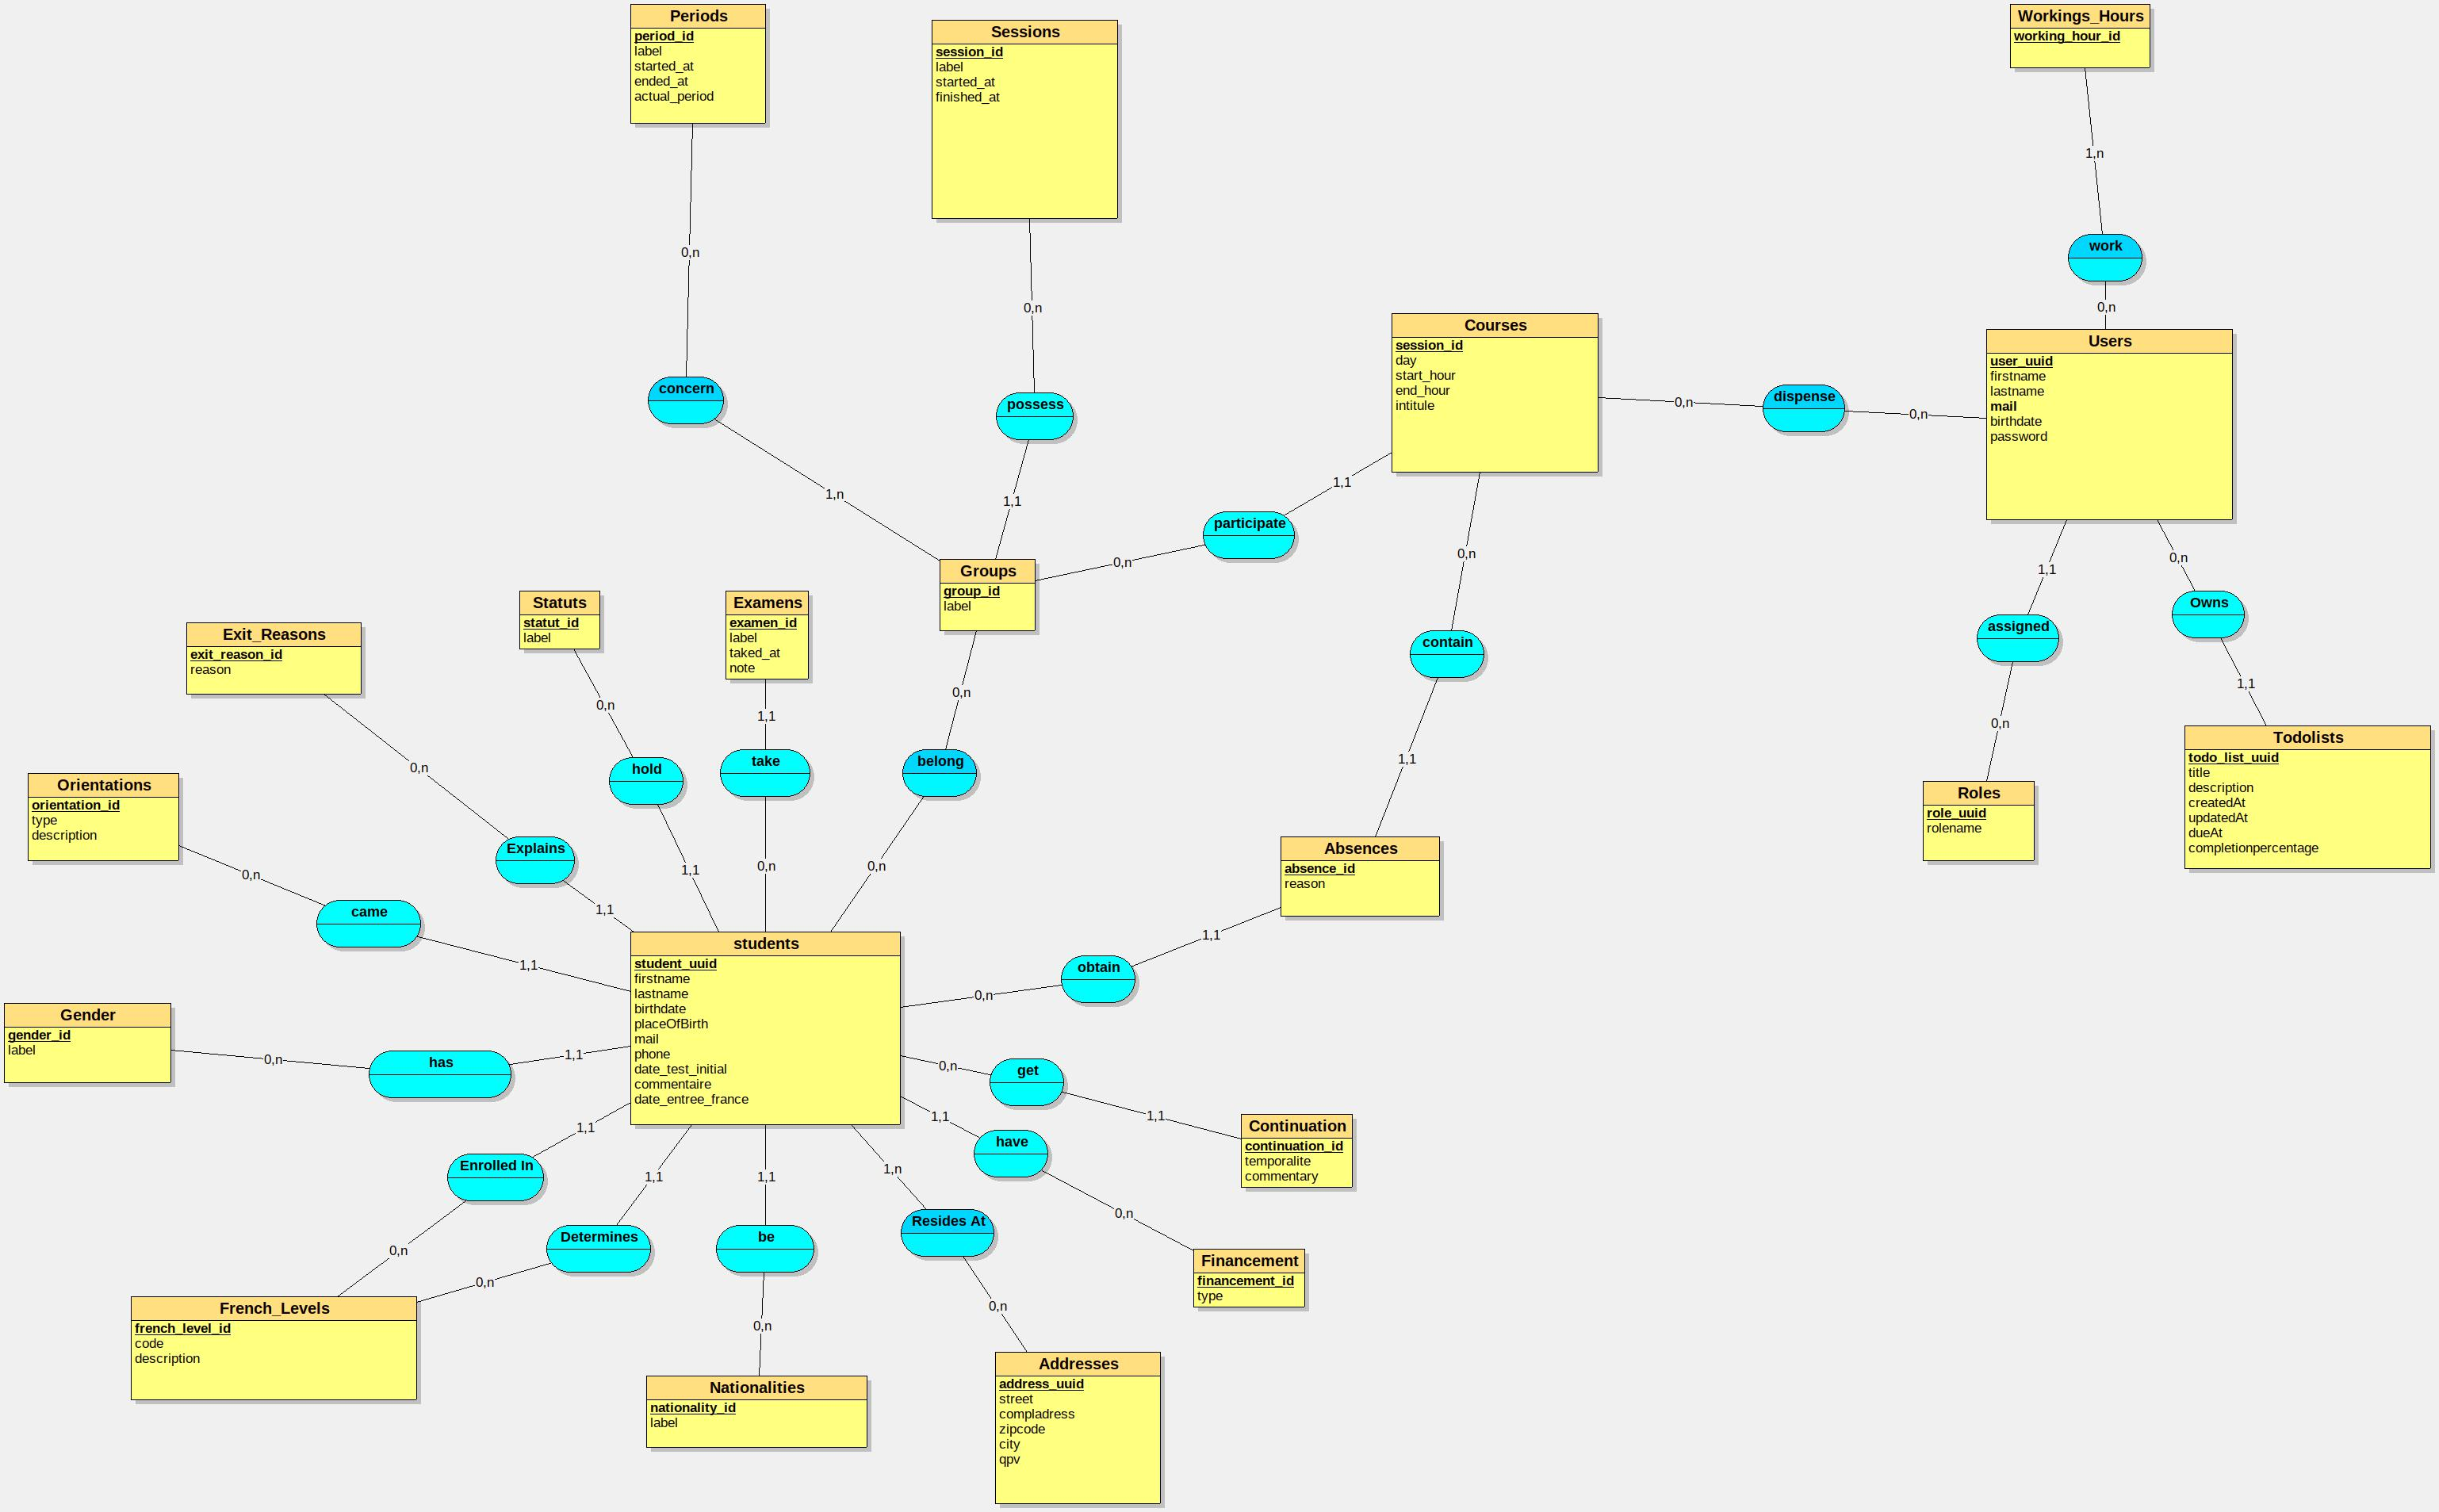
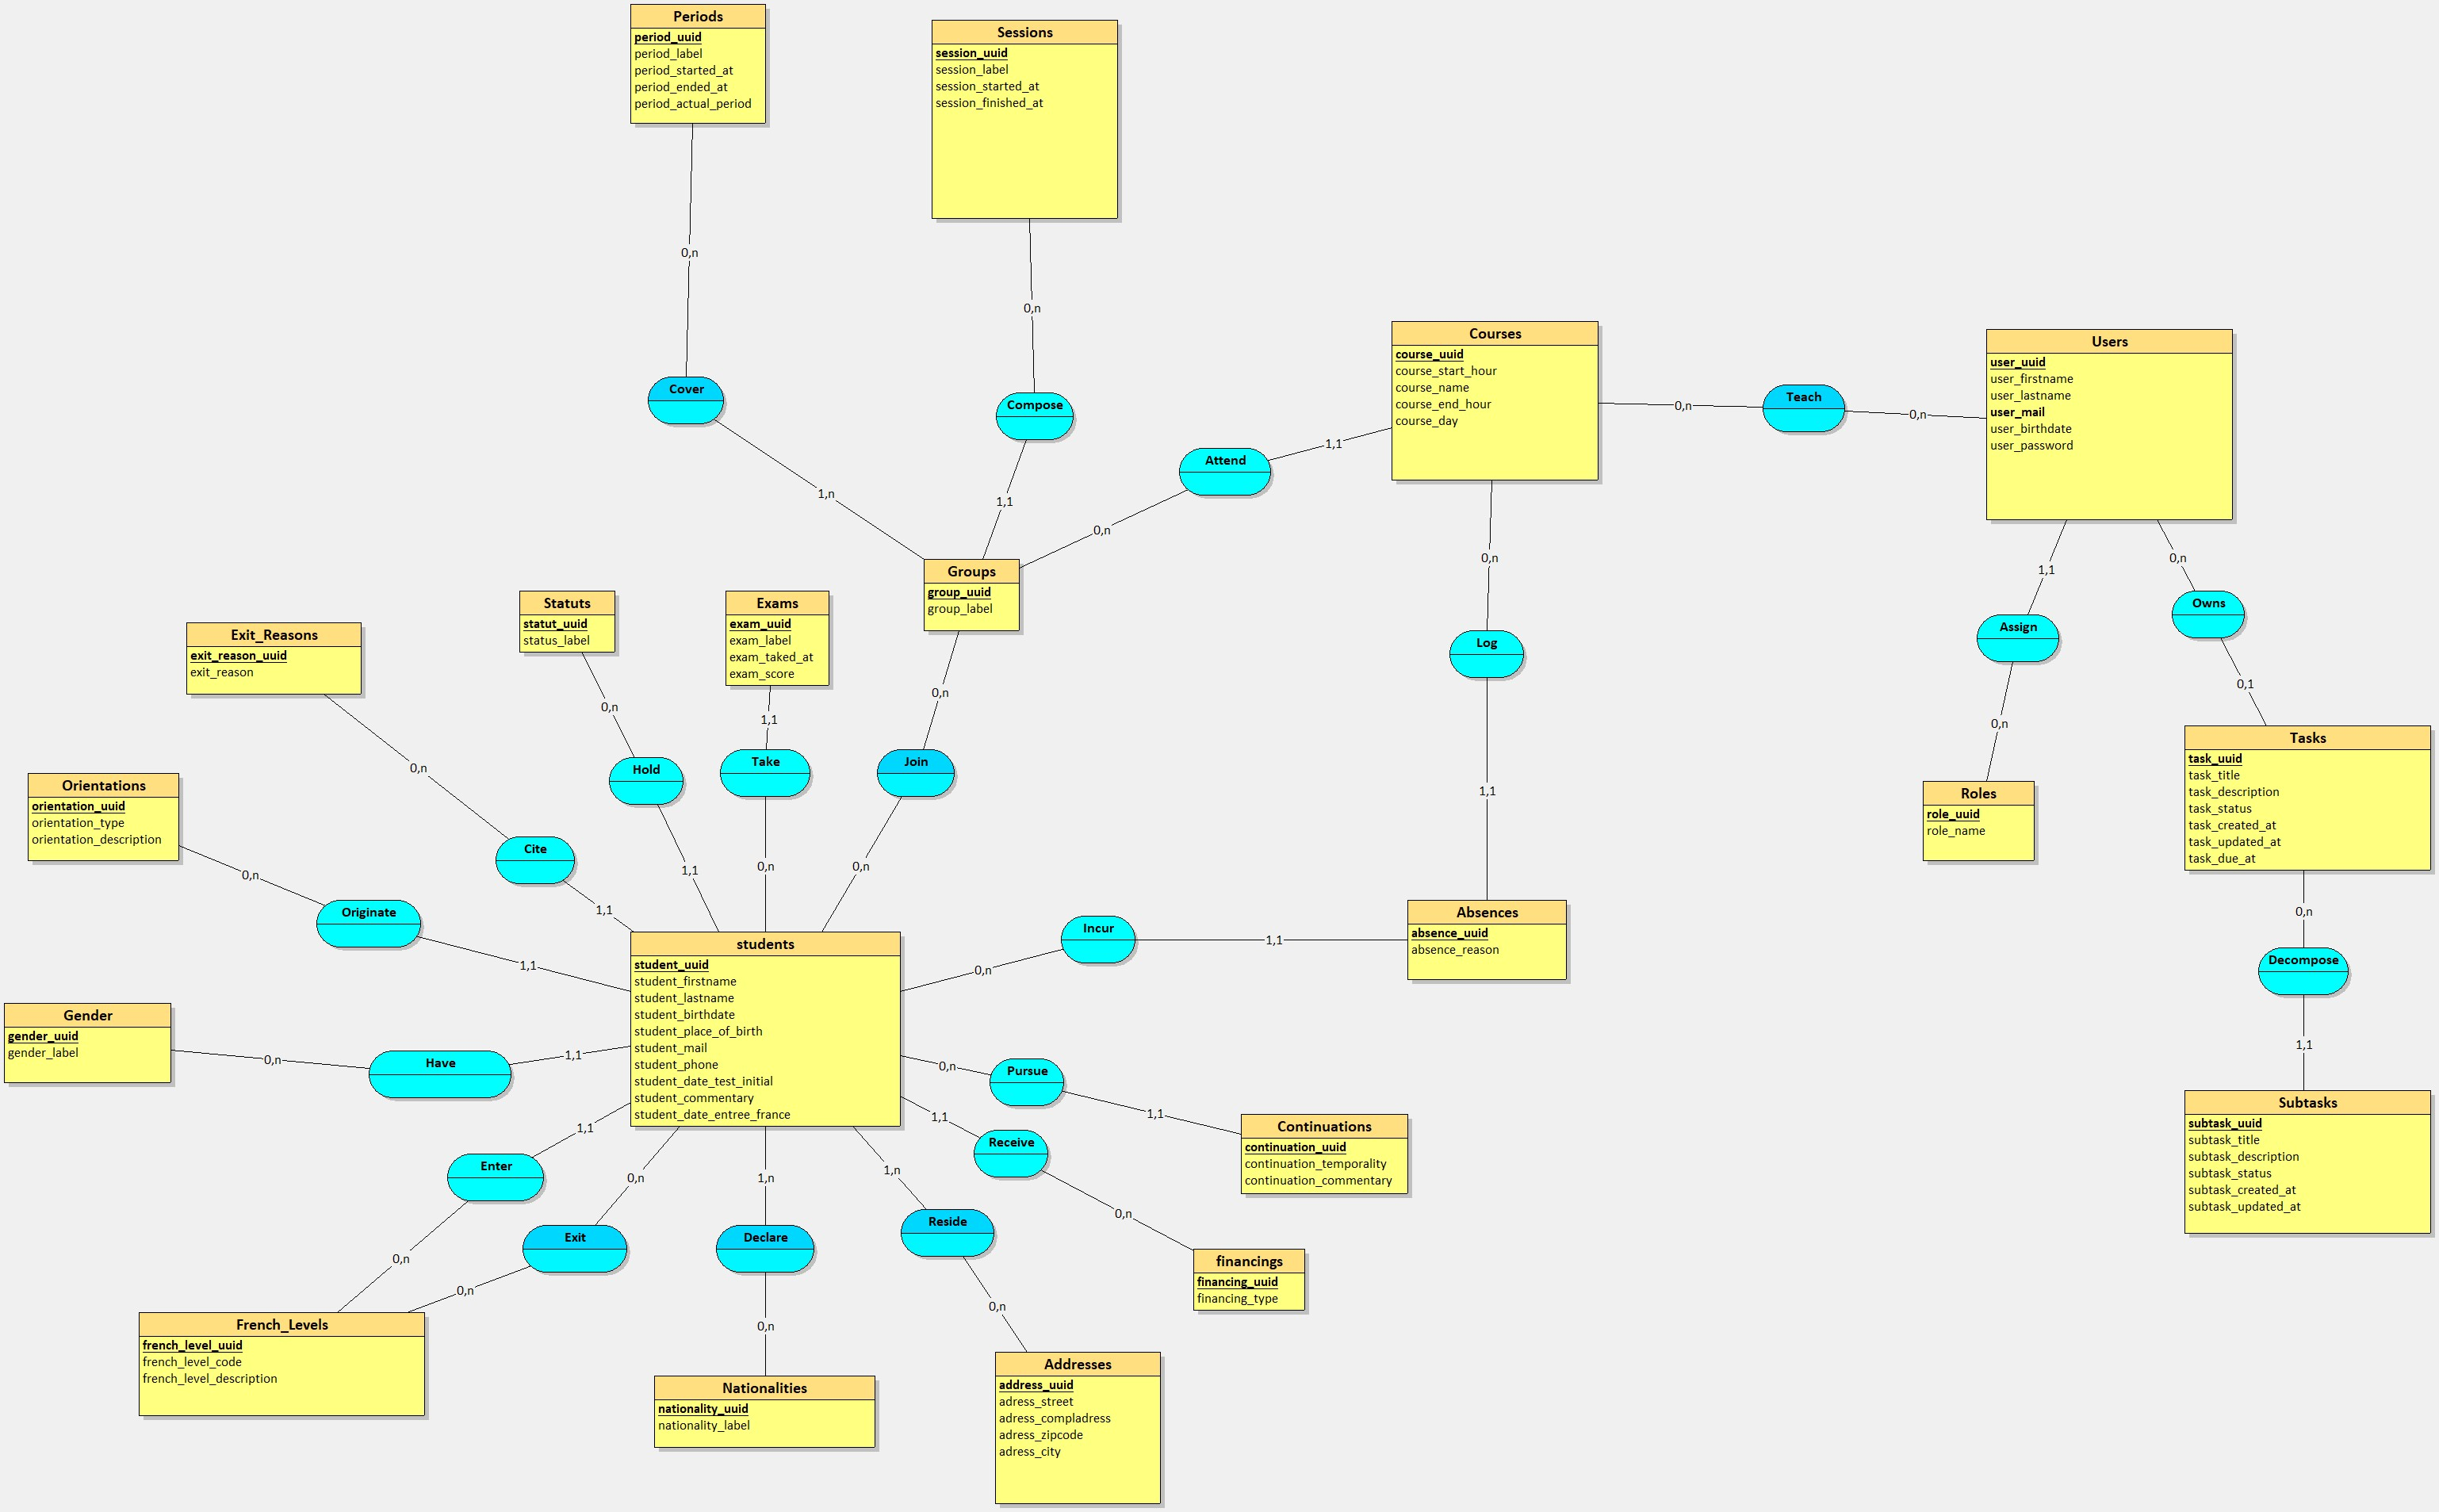
docs(FLE) : Standardizing MCD and data dictionnary

diff --git a/doc/FLE/bdd/dictionnaire-donnees.md b/doc/FLE/bdd/dictionnaire-donnees.md
@@ -1,208 +1,223 @@
 # Dictionnaire de données - Plateforme FLE
 
-Ce document décrit les tables et les champs de la base de données pour la plateforme de gestion du Français Langue Étrangère (FLE) de l'association A.I.R.
+Ce document décrit les tables et les champs de la base de données pour la plateforme de gestion du Français Langue Étrangère (FLE) de l'association A.I.R., conformément au schéma SQL fourni.
 
 ## Tables de référence
 
 ### Roles
-| Champ | Type | Description | Contrainte |
-|-------|------|-------------|------------|
-| role_uuid | uuid | Identifiant unique du rôle | Clé primaire |
-| rolename | VARCHAR(50) | Nom du rôle | |
+| Champ | Type | Description | Contrainte | Exemple |
+|---|---|---|---|---|
+| role_uuid | uuid | Identifiant unique du rôle | Clé primaire | `'a1b2c3d4-e5f6-7890-1234-567890abcdef'` |
+| role_name | VARCHAR(50) | Nom du rôle (ex: "Admin", "Formateur") | | `'Formateur'` |
 
 ### Nationalities
-| Champ | Type | Description | Contrainte |
-|-------|------|-------------|------------|
-| nationality_id | INT | Identifiant de la nationalité | Clé primaire |
-| label | VARCHAR(256) | Libellé de la nationalité | |
+| Champ | Type | Description | Contrainte | Exemple |
+|---|---|---|---|---|
+| nationality_uuid | uuid | Identifiant unique de la nationalité | Clé primaire | `'b1c2d3e4-f5a6-b789-c123-d4567890123e'` |
+| nationality_label | VARCHAR(256) | Libellé de la nationalité | | `'Afghane'` |
 
 ### French_Levels
-| Champ | Type | Description | Contrainte |
-|-------|------|-------------|------------|
-| french_level_id | INT | Identifiant du niveau de français | Clé primaire |
-| code | VARCHAR(50) | Code du niveau (A1, A2, B1, B2, C1, C2) | |
-| description | VARCHAR(50) | Description du niveau | |
+| Champ | Type | Description | Contrainte | Exemple |
+|---|---|---|---|---|
+| french_level_uuid | uuid | Identifiant unique du niveau de français | Clé primaire | `'c1d2e3f4-a5b6-c789-d123-e4567890123f'` |
+| french_level_code | VARCHAR(50) | Code du niveau (A1, A2, B1...) | | `'A2'` |
+| french_level_description | VARCHAR(50) | Description du niveau | | `'Niveau élémentaire'` |
 
-### Gender
-| Champ | Type | Description | Contrainte |
-|-------|------|-------------|------------|
-| gender_id | INT | Identifiant du genre | Clé primaire |
-| label | VARCHAR(50) | Libellé du genre | |
-
-### Addresses
-| Champ | Type | Description | Contrainte |
-|-------|------|-------------|------------|
-| address_uuid | uuid | Identifiant unique de l'adresse | Clé primaire |
-| street | VARCHAR(50) | Rue | |
-| compladress | VARCHAR(50) | Complément d'adresse | |
-| zipcode | INT | Code postal | |
-| city | VARCHAR(50) | Ville | |
-| qpv | VARCHAR(50) | Quartier Prioritaire de la Ville | |
+### Genders
+| Champ | Type | Description | Contrainte | Exemple |
+|---|---|---|---|---|
+| gender_uuid | uuid | Identifiant unique du genre | Clé primaire | `'d1e2f3a4-b5c6-d789-e123-f4567890123a'` |
+| gender_label | VARCHAR(50) | Libellé du genre | | `'Femme'` |
 
 ### Exit_Reasons
-| Champ | Type | Description | Contrainte |
-|-------|------|-------------|------------|
-| exit_reason_id | VARCHAR(50) | Identifiant de la raison de sortie | Clé primaire |
-| reason | VARCHAR(50) | Motif de sortie | |
+| Champ | Type | Description | Contrainte | Exemple |
+|---|---|---|---|---|
+| exit_reason_uuid | uuid | Identifiant unique de la raison de sortie | Clé primaire | `'e1f2a3b4-c5d6-e789-f123-a4567890123b'` |
+| exit_reason | VARCHAR(50) | Motif de la sortie de la formation | | `'Obtention d'un emploi'` |
 
 ### Orientations
-| Champ | Type | Description | Contrainte |
-|-------|------|-------------|------------|
-| orientation_id | VARCHAR(50) | Identifiant de l'orientation | Clé primaire |
-| type | VARCHAR(50) | Type d'orientation | |
-| description | VARCHAR(50) | Description de l'orientation | |
+| Champ | Type | Description | Contrainte | Exemple |
+|---|---|---|---|---|
+| orientation_uuid | uuid | Identifiant unique de l'orientation post-formation | Clé primaire | `'f1a2b3c4-d5e6-f789-a123-b4567890123c'` |
+| orientation_type | VARCHAR(50) | Type d'orientation (ex: "Emploi", "Formation qualifiante") | | `'Formation qualifiante'` |
+| orientation_description | VARCHAR(50) | Description de l'orientation | | `'Formation en cuisine'` |
 
 ### Periods
-| Champ | Type | Description | Contrainte |
-|-------|------|-------------|------------|
-| period_id | INT | Identifiant de la période | Clé primaire |
-| label | VARCHAR(50) | Libellé de la période | |
-| started_at | DATE | Date de début | |
-| ended_at | DATE | Date de fin | |
-| actual_period | LOGICAL | Période en cours (oui/non) | |
+| Champ | Type | Description | Contrainte | Exemple |
+|---|---|---|---|---|
+| period_uuid | uuid | Identifiant unique de la période | Clé primaire | `'a2b3c4d5-e6f7-a890-1234-567890abcdef'` |
+| period_label | VARCHAR(50) | Libellé de la période (ex: "Session 1 - 2024") | | `'Année 2024-2025'` |
+| period_started_at | DATE | Date de début de la période | | `'2024-09-01'` |
+| period_ended_at | DATE | Date de fin de la période | | `'2025-06-30'` |
+| period_actual_period | LOGICAL | Indique si c'est la période en cours | | `true` |
 
 ### Sessions
-| Champ | Type | Description | Contrainte |
-|-------|------|-------------|------------|
-| session_id | INT | Identifiant de la session | Clé primaire |
-| label | VARCHAR(50) | Libellé de la session | |
-| started_at | DATE | Date de début | |
-| finished_at | DATE | Date de fin | |
+| Champ | Type | Description | Contrainte | Exemple |
+|---|---|---|---|---|
+| session_uuid | uuid | Identifiant unique de la session de cours | Clé primaire | `'b2c3d4e5-f6a7-b890-c123-d4567890123e'` |
+| session_label | VARCHAR(50) | Libellé de la session | | `'Session 1'` |
+| session_started_at | DATE | Date de début de la session | | `'2024-09-01'` |
+| session_finished_at | DATE | Date de fin de la session | | `'2024-11-15'` |
 
-### Workings_Hours
-| Champ | Type | Description | Contrainte |
-|-------|------|-------------|------------|
-| working_hour_id | VARCHAR(50) | Identifiant des heures de travail | Clé primaire |
+### Status
+| Champ | Type | Description | Contrainte | Exemple |
+|---|---|---|---|---|
+| status_uuid | uuid | Identifiant unique du statut de l'apprenant | Clé primaire | `'c2d3e4f5-a6b7-c890-d123-e4567890123f'` |
+| status_label | VARCHAR(50) | Libellé du statut (ex: "Demandeur d'asile", "BPI") | | `'Demandeur d''asile'` |
 
-### Statuts
-| Champ | Type | Description | Contrainte |
-|-------|------|-------------|------------|
-| statut_id | INT | Identifiant du statut | Clé primaire |
-| label | VARCHAR(50) | Libellé du statut | |
-
-### Financement
-| Champ | Type | Description | Contrainte |
-|-------|------|-------------|------------|
-| financement_id | INT | Identifiant du financement | Clé primaire |
-| type | VARCHAR(50) | Type de financement | |
+### financings
+| Champ | Type | Description | Contrainte | Exemple |
+|---|---|---|---|---|
+| financing_uuid | uuid | Identifiant unique du type de financement | Clé primaire | `'d2e3f4a5-b6c7-d890-e123-f4567890123a'` |
+| financing_type | VARCHAR(50) | Type de financement (ex: "OFII", "Personnel") | | `'OFII'` |
 
 ## Tables principales
 
 ### Users
-| Champ | Type | Description | Contrainte |
-|-------|------|-------------|------------|
-| user_uuid | uuid | Identifiant unique de l'utilisateur | Clé primaire |
-| firstname | VARCHAR(50) | Prénom | |
-| lastname | VARCHAR(50) | Nom | |
-| mail | VARCHAR(50) | Email | NOT NULL, UNIQUE |
-| birthdate | DATETIME | Date de naissance | |
-| password | VARCHAR(50) | Mot de passe | |
-| role_uuid | uuid | Identifiant du rôle | NOT NULL, Clé étrangère → Roles(role_uuid) |
+| Champ | Type | Description | Contrainte | Exemple |
+|---|---|---|---|---|
+| user_uuid | uuid | Identifiant unique de l'utilisateur | Clé primaire | `'a1b2c3d4-e5f6-7890-1234-567890abcdef'` |
+| user_firstname | VARCHAR(50) | Prénom de l'utilisateur | | `'Nathalie'` |
+| user_lastname | VARCHAR(50) | Nom de l'utilisateur | | `'Dupont'` |
+| user_mail | VARCHAR(50) | Email de l'utilisateur | NOT NULL, UNIQUE | `'[email redacted]'` |
+| user_birthdate | DATETIME | Date de naissance de l'utilisateur | | `'1985-02-10 00:00:00'` |
+| user_password | VARCHAR(50) | Mot de passe (haché) | | `'hashed_password_string'` |
+| role_uuid | uuid | Rôle de l'utilisateur | NOT NULL, Clé étrangère → Roles(role_uuid) | `'a1b2c3d4-e5f6-7890-1234-567890abcdef'` |
 
-### Students
-| Champ | Type | Description | Contrainte |
-|-------|------|-------------|------------|
-| student_uuid | uuid | Identifiant unique de l'apprenant | Clé primaire |
-| firstname | VARCHAR(50) | Prénom | |
-| lastname | VARCHAR(50) | Nom | |
-| birthdate | DATETIME | Date de naissance | |
-| placeOfBirth | VARCHAR(50) | Lieu de naissance | |
-| mail | VARCHAR(50) | Email | |
-| phone | VARCHAR(50) | Téléphone | |
-| date_test_initial | VARCHAR(50) | Date du test initial | |
-| commentaire | VARCHAR(50) | Commentaires | |
-| date_entree_france | VARCHAR(50) | Date d'entrée en France | |
-| financement_id | INT | Identifiant du financement | NOT NULL, Clé étrangère → Financement(financement_id) |
-| statut_id | INT | Identifiant du statut | NOT NULL, Clé étrangère → Statuts(statut_id) |
-| orientation_id | VARCHAR(50) | Identifiant de l'orientation | NOT NULL, Clé étrangère → Orientations(orientation_id) |
-| exit_reason_id | VARCHAR(50) | Identifiant de la raison de sortie | NOT NULL, Clé étrangère → Exit_Reasons(exit_reason_id) |
-| french_level_id | INT | Niveau de français initial | NOT NULL, Clé étrangère → French_Levels(french_level_id) |
-| french_level_id_1 | INT | Niveau de français final | NOT NULL, Clé étrangère → French_Levels(french_level_id) |
-| nationality_id | INT | Identifiant de la nationalité | NOT NULL, Clé étrangère → Nationalities(nationality_id) |
-| gender_id | INT | Identifiant du genre | NOT NULL, Clé étrangère → Gender(gender_id) |
+### students
+| Champ | Type | Description | Contrainte | Exemple |
+|---|---|---|---|---|
+| student_uuid | uuid | Identifiant unique de l'apprenant | Clé primaire | `'e2f3a4b5-c6d7-e890-f123-a4567890123b'` |
+| student_firstname | VARCHAR(50) | Prénom de l'apprenant | | `'Fatima'` |
+| student_lastname | VARCHAR(50) | Nom de l'apprenant | | `'Al-Sayed'` |
+| student_birthdate | DATETIME | Date de naissance | | `'1998-07-20 00:00:00'` |
+| student_place_of_birth | VARCHAR(50) | Lieu de naissance | | `'Damas'` |
+| student_mail | VARCHAR(50) | Email de l'apprenant | | `'[email redacted]'` |
+| student_phone | VARCHAR(50) | Téléphone de l'apprenant | | `'[phone redacted]'` |
+| student_date_test_initial | DATE | Date du test de positionnement initial | | `'2024-09-05'` |
+| student_commentary | VARCHAR(50) | Commentaire général sur l'apprenant | | `'Très motivée'` |
+| student_date_entree_france | DATETIME | Date d'entrée en France | | `'2023-05-15 00:00:00'` |
+| financing_uuid | uuid | Financement de la formation | NOT NULL, Clé étrangère → financings(financing_uuid) | `'d2e3f4a5-b6c7-d890-e123-f4567890123a'` |
+| status_uuid | uuid | Statut de l'apprenant | NOT NULL, Clé étrangère → Status(status_uuid) | `'c2d3e4f5-a6b7-c890-d123-e4567890123f'` |
+| orientation_uuid | uuid | Orientation à la sortie | NOT NULL, Clé étrangère → Orientations(orientation_uuid) | `'f1a2b3c4-d5e6-f789-a123-b4567890123c'` |
+| exit_reason_uuid | uuid | Motif de la sortie | NOT NULL, Clé étrangère → Exit_Reasons(exit_reason_uuid) | `'e1f2a3b4-c5d6-e789-f123-a4567890123b'` |
+| french_level_uuid | uuid | Niveau de français initial (à l'entrée) | NOT NULL, Clé étrangère → French_Levels(french_level_uuid) | `'c1d2e3f4-a5b6-c789-d123-e4567890123f'` |
+| gender_uuid | uuid | Genre de l'apprenant | NOT NULL, Clé étrangère → Genders(gender_uuid) | `'d1e2f3a4-b5c6-d789-e123-f4567890123a'` |
 
-### Todolists
-| Champ | Type | Description | Contrainte |
-|-------|------|-------------|------------|
-| todo_list_uuid | uuid | Identifiant unique de la liste de tâches | Clé primaire |
-| title | VARCHAR(50) | Titre | |
-| description | VARCHAR(50) | Description | |
-| createdAt | DATETIME | Date de création | |
-| updatedAt | DATETIME | Date de mise à jour | |
-| dueAt | DATETIME | Date d'échéance | |
-| completionpercentage | DECIMAL(15,2) | Pourcentage d'achèvement | |
-| user_uuid | uuid | Identifiant de l'utilisateur | NOT NULL, Clé étrangère → Users(user_uuid) |
+### Addresses
+| Champ | Type | Description | Contrainte | Exemple |
+|---|---|---|---|---|
+| address_uuid | uuid | Identifiant unique de l'adresse | Clé primaire | `'f2a3b4c5-d6e7-f890-a123-b4567890123c'` |
+| adress_street | VARCHAR(50) | Rue | | `'10 Rue Nationale'` |
+| adress_compladress | VARCHAR(50) | Complément d'adresse | | `'Appartement 5'` |
+| adress_zipcode | INT | Code postal | | `59200` |
+| adress_city | VARCHAR(50) | Ville | | `'Tourcoing'` |
+
+### Tasks
+| Champ | Type | Description | Contrainte | Exemple |
+|---|---|---|---|---|
+| task_uuid | uuid | Identifiant unique de la tâche | Clé primaire | `'a3b4c5d6-e7f8-a901-b234-c567890def12'` |
+| task_title | VARCHAR(50) | Titre de la tâche | | `'Préparer évaluation A1'` |
+| task_description | VARCHAR(50) | Description de la tâche | | `'Créer le sujet et les fiches de notes'` |
+| task_status | DECIMAL(15,2) | État d'avancement (ex: pourcentage) | | `50.00` |
+| task_created_at | DATETIME | Date de création | | `'2024-10-01 10:00:00'` |
+| task_updated_at | DATETIME | Date de dernière modification | | `'2024-10-02 15:30:00'` |
+| task_due_at | DATETIME | Date d'échéance | | `'2024-10-10 18:00:00'` |
+| user_uuid | uuid | Utilisateur assigné à la tâche | Clé étrangère → Users(user_uuid) | `'a1b2c3d4-e5f6-7890-1234-567890abcdef'` |
+
+### Subtasks
+| Champ | Type | Description | Contrainte | Exemple |
+|---|---|---|---|---|
+| subtask_uuid | uuid | Identifiant unique de la sous-tâche | Clé primaire | `'b3c4d5e6-f7a8-b901-c234-d567890ef123'` |
+| subtask_title | VARCHAR(50) | Titre de la sous-tâche | | `'Imprimer les sujets'` |
+| subtask_description | VARCHAR(50) | Description de la sous-tâche | | `'30 copies'` |
+| subtask_status | VARCHAR(50) | Statut de la sous-tâche | | `'Terminé'` |
+| subtask_created_at | DATETIME | Date de création | | `'2024-10-03 09:00:00'` |
+| subtask_updated_at | DATETIME | Date de dernière modification | | `'2024-10-03 11:00:00'` |
+| task_uuid | uuid | Tâche parente | NOT NULL, Clé étrangère → Tasks(task_uuid) | `'a3b4c5d6-e7f8-a901-b234-c567890def12'` |
 
 ### Groups
-| Champ | Type | Description | Contrainte |
-|-------|------|-------------|------------|
-| group_id | INT | Identifiant du groupe | Clé primaire |
-| label | VARCHAR(50) | Libellé du groupe | |
-| session_id | INT | Identifiant de la session | NOT NULL, Clé étrangère → Sessions(session_id) |
+| Champ | Type | Description | Contrainte | Exemple |
+|---|---|---|---|---|
+| group_uuid | uuid | Identifiant unique du groupe d'apprenants | Clé primaire | `'c3d4e5f6-a7b8-c901-d234-e567890f1234'` |
+| group_label | VARCHAR(50) | Nom du groupe (ex: "A1 Matin") | | `'A1 Matin - Lundi/Mardi'` |
+| session_uuid | uuid | Session à laquelle le groupe appartient | NOT NULL, Clé étrangère → Sessions(session_uuid) | `'b2c3d4e5-f6a7-b890-c123-d4567890123e'` |
 
 ### Courses
-| Champ | Type | Description | Contrainte |
-|-------|------|-------------|------------|
-| session_id | INT | Identifiant de la session | Clé primaire |
-| day_ | DATE | Jour | |
-| start_hour | DATE | Heure de début | |
-| end_hour | DATE | Heure de fin | |
-| intitule | VARCHAR(50) | Intitulé du cours | |
-| group_id | INT | Identifiant du groupe | NOT NULL, Clé étrangère → Groups(group_id) |
+| Champ | Type | Description | Contrainte | Exemple |
+|---|---|---|---|---|
+| course_uuid | uuid | Identifiant unique du cours | Clé primaire | `'d3e4f5a6-b7c8-d901-e234-f567890a1234'` |
+| course_name | VARCHAR(50) | Intitulé du cours | | `'Grammaire'` |
+| course_day | DATE | Jour du cours | | `'2024-09-09'` |
+| course_start_hour | DATETIME | Heure de début | | `'2024-09-09 09:00:00'` |
+| course_end_hour | DATETIME | Heure de fin | | `'2024-09-09 11:00:00'` |
+| group_uuid | uuid | Groupe qui suit le cours | NOT NULL, Clé étrangère → Groups(group_uuid) | `'c3d4e5f6-a7b8-c901-d234-e567890f1234'` |
 
-### Examens
-| Champ | Type | Description | Contrainte |
-|-------|------|-------------|------------|
-| examen_id | INT | Identifiant de l'examen | Clé primaire |
-| label | VARCHAR(50) | Libellé de l'examen | |
-| taked_at | DATE | Date de passage | |
-| note | VARCHAR(50) | Note obtenue | |
-| student_uuid | uuid | Identifiant de l'apprenant | NOT NULL, Clé étrangère → Students(student_uuid) |
+### Exams
+| Champ | Type | Description | Contrainte | Exemple |
+|---|---|---|---|---|
+| exam_uuid | uuid | Identifiant unique de l'examen | Clé primaire | `'e3f4a5b6-c7d8-e901-f234-a567890b1234'` |
+| exam_label | VARCHAR(50) | Libellé de l'examen | | `'Examen final A1'` |
+| exam_taked_at | DATE | Date de passage | | `'2024-11-10'` |
+| exam_score | VARCHAR(50) | Note/Score obtenu | | `'85/100'` |
+| student_uuid | uuid | Apprenant qui a passé l'examen | NOT NULL, Clé étrangère → students(student_uuid) | `'e2f3a4b5-c6d7-e890-f123-a4567890123b'` |
 
-### Continuation
-| Champ | Type | Description | Contrainte |
-|-------|------|-------------|------------|
-| continuation_id | INT | Identifiant du suivi | Clé primaire |
-| temporalite | VARCHAR(50) | Temporalité (6 mois, 12 mois) | |
-| commentary | VARCHAR(50) | Commentaire de suivi | |
-| student_uuid | uuid | Identifiant de l'apprenant | NOT NULL, Clé étrangère → Students(student_uuid) |
+### Continuations
+| Champ | Type | Description | Contrainte | Exemple |
+|---|---|---|---|---|
+| continuation_uuid | uuid | Identifiant unique du suivi post-formation | Clé primaire | `'f3a4b5c6-d7e8-f901-a234-b567890c1234'` |
+| continuation_temporality | DATETIME | Date du point de suivi (ex: à 6 mois) | | `'2025-05-10 00:00:00'` |
+| continuation_commentary | VARCHAR(50) | Commentaire sur la situation de l'apprenant | | `'A trouvé un CDD'` |
+| student_uuid | uuid | Apprenant concerné par le suivi | NOT NULL, Clé étrangère → students(student_uuid) | `'e2f3a4b5-c6d7-e890-f123-a4567890123b'` |
 
 ### Absences
-| Champ | Type | Description | Contrainte |
-|-------|------|-------------|------------|
-| absence_id | INT | Identifiant de l'absence | Clé primaire |
-| reason | VARCHAR(50) | Motif de l'absence | |
-| student_uuid | uuid | Identifiant de l'apprenant | NOT NULL, Clé étrangère → Students(student_uuid) |
-| session_id | INT | Identifiant de la session | NOT NULL, Clé étrangère → Courses(session_id) |
+| Champ | Type | Description | Contrainte | Exemple |
+|---|---|---|---|---|
+| absence_uuid | uuid | Identifiant unique de l'absence | Clé primaire | `'a4b5c6d7-e8f9-a012-b345-c67890d12345'` |
+| absence_reason | VARCHAR(50) | Motif de l'absence | | `'Rendez-vous médical'` |
+| student_uuid | uuid | Apprenant absent | NOT NULL, Clé étrangère → students(student_uuid) | `'e2f3a4b5-c6d7-e890-f123-a4567890123b'` |
+| course_uuid | uuid | Cours manqué | NOT NULL, Clé étrangère → Courses(course_uuid) | `'d3e4f5a6-b7c8-d901-e234-f567890a1234'` |
 
 ## Tables de relation
 
-### Resides_At
-| Champ | Type | Description | Contrainte |
-|-------|------|-------------|------------|
-| student_uuid | uuid | Identifiant de l'apprenant | Clé primaire, Clé étrangère → Students(student_uuid) |
-| address_uuid | uuid | Identifiant de l'adresse | Clé primaire, Clé étrangère → Addresses(address_uuid) |
+### Declare_
+*Relation (N,N) entre les apprenants et leurs nationalités.*
+| Champ | Type | Description | Contrainte | Exemple |
+|---|---|---|---|---|
+| student_uuid | uuid | Identifiant de l'apprenant | Clé primaire, Clé étrangère → students(student_uuid) | `'e2f3a4b5-c6d7-e890-f123-a4567890123b'` |
+| nationality_uuid | uuid | Identifiant de la nationalité | Clé primaire, Clé étrangère → Nationalities(nationality_uuid) | `'b1c2d3e4-f5a6-b789-c123-d4567890123e'` |
 
-### Belong
-| Champ | Type | Description | Contrainte |
-|-------|------|-------------|------------|
-| student_uuid | uuid | Identifiant de l'apprenant | Clé primaire, Clé étrangère → Students(student_uuid) |
-| group_id | INT | Identifiant du groupe | Clé primaire, Clé étrangère → Groups(group_id) |
+### Exit
+*Relation (N,N) pour stocker le niveau de français final d'un apprenant à sa sortie.*
+| Champ | Type | Description | Contrainte | Exemple |
+|---|---|---|---|---|
+| student_uuid | uuid | Identifiant de l'apprenant | Clé primaire, Clé étrangère → students(student_uuid) | `'e2f3a4b5-c6d7-e890-f123-a4567890123b'` |
+| french_level_uuid | uuid | Identifiant du niveau de français | Clé primaire, Clé étrangère → French_Levels(french_level_uuid) | `'c1d2e3f4-a5b6-c789-d123-e4567890123f'` |
 
-### Dispense
-| Champ | Type | Description | Contrainte |
-|-------|------|-------------|------------|
-| user_uuid | uuid | Identifiant de l'utilisateur | Clé primaire, Clé étrangère → Users(user_uuid) |
-| session_id | INT | Identifiant de la session | Clé primaire, Clé étrangère → Courses(session_id) |
+### Reside
+*Relation (N,N) entre les apprenants et leurs adresses.*
+| Champ | Type | Description | Contrainte | Exemple |
+|---|---|---|---|---|
+| student_uuid | uuid | Identifiant de l'apprenant | Clé primaire, Clé étrangère → students(student_uuid) | `'e2f3a4b5-c6d7-e890-f123-a4567890123b'` |
+| address_uuid | uuid | Identifiant de l'adresse | Clé primaire, Clé étrangère → Addresses(address_uuid) | `'f2a3b4c5-d6e7-f890-a123-b4567890123c'` |
 
-### Concern
-| Champ | Type | Description | Contrainte |
-|-------|------|-------------|------------|
-| period_id | INT | Identifiant de la période | Clé primaire, Clé étrangère → Periods(period_id) |
-| group_id | INT | Identifiant du groupe | Clé primaire, Clé étrangère → Groups(group_id) |
+### Join_
+*Relation (N,N) entre les apprenants et les groupes.*
+| Champ | Type | Description | Contrainte | Exemple |
+|---|---|---|---|---|
+| student_uuid | uuid | Identifiant de l'apprenant | Clé primaire, Clé étrangère → students(student_uuid) | `'e2f3a4b5-c6d7-e890-f123-a4567890123b'` |
+| group_uuid | uuid | Identifiant du groupe | Clé primaire, Clé étrangère → Groups(group_uuid) | `'c3d4e5f6-a7b8-c901-d234-e567890f1234'` |
 
-### Work
-| Champ | Type | Description | Contrainte |
-|-------|------|-------------|------------|
-| user_uuid | uuid | Identifiant de l'utilisateur | Clé primaire, Clé étrangère → Users(user_uuid) |
-| working_hour_id | VARCHAR(50) | Identifiant des heures de travail | Clé primaire, Clé étrangère → Workings_Hours(working_hour_id) |
+### Teach
+*Relation (N,N) entre les formateurs (utilisateurs) et les cours qu'ils dispensent.*
+| Champ | Type | Description | Contrainte | Exemple |
+|---|---|---|---|---|
+| user_uuid | uuid | Identifiant de l'utilisateur (formateur) | Clé primaire, Clé étrangère → Users(user_uuid) | `'a1b2c3d4-e5f6-7890-1234-567890abcdef'` |
+| course_uuid | uuid | Identifiant du cours | Clé primaire, Clé étrangère → Courses(course_uuid) | `'d3e4f5a6-b7c8-d901-e234-f567890a1234'` |
+
+### Cover
+*Relation (N,N) entre les périodes et les groupes.*
+| Champ | Type | Description | Contrainte | Exemple |
+|---|---|---|---|---|
+| period_uuid | uuid | Identifiant de la période | Clé primaire, Clé étrangère → Periods(period_uuid) | `'a2b3c4d5-e6f7-a890-1234-567890abcdef'` |
+| group_uuid | uuid | Identifiant du groupe | Clé primaire, Clé étrangère → Groups(group_uuid) | `'c3d4e5f6-a7b8-c901-d234-e567890f1234'` |